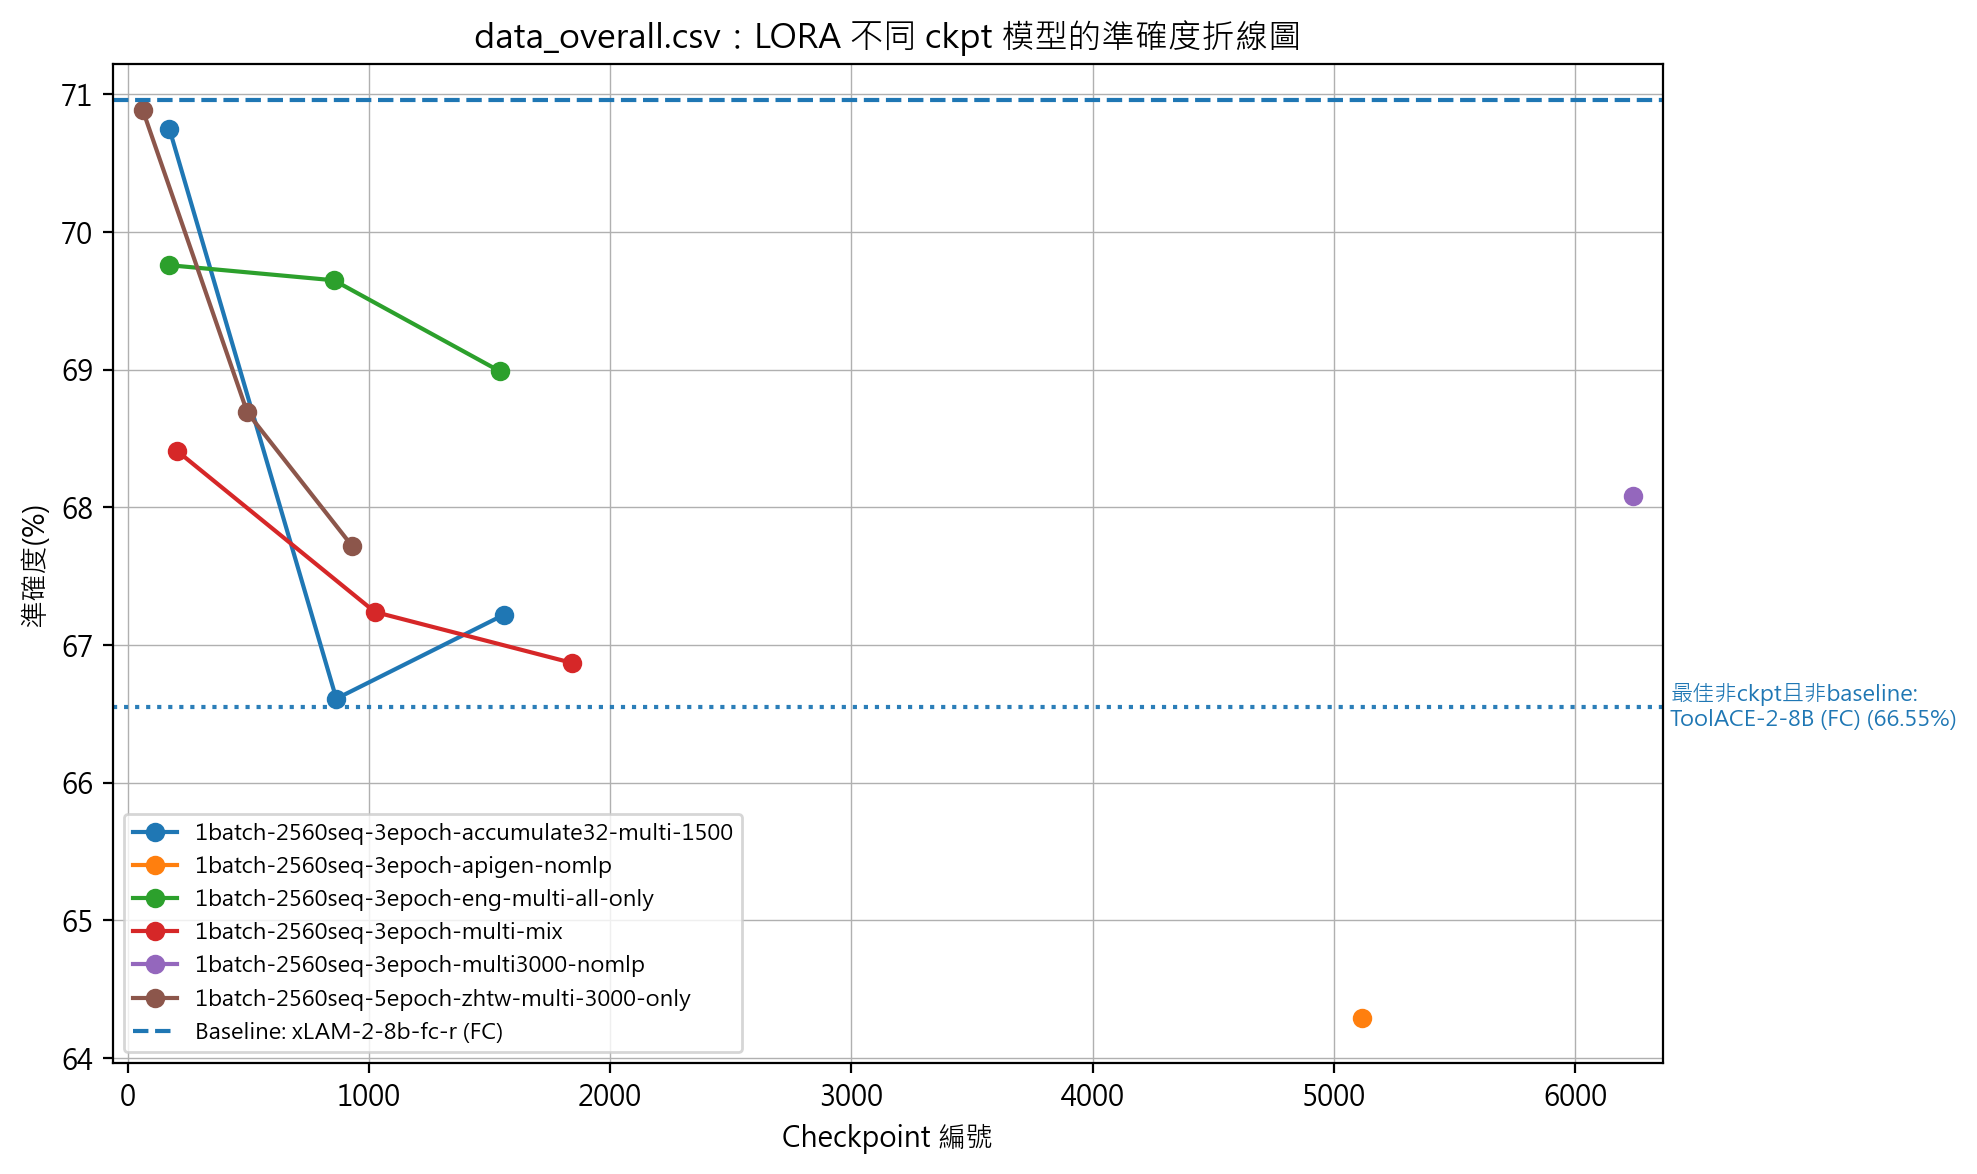
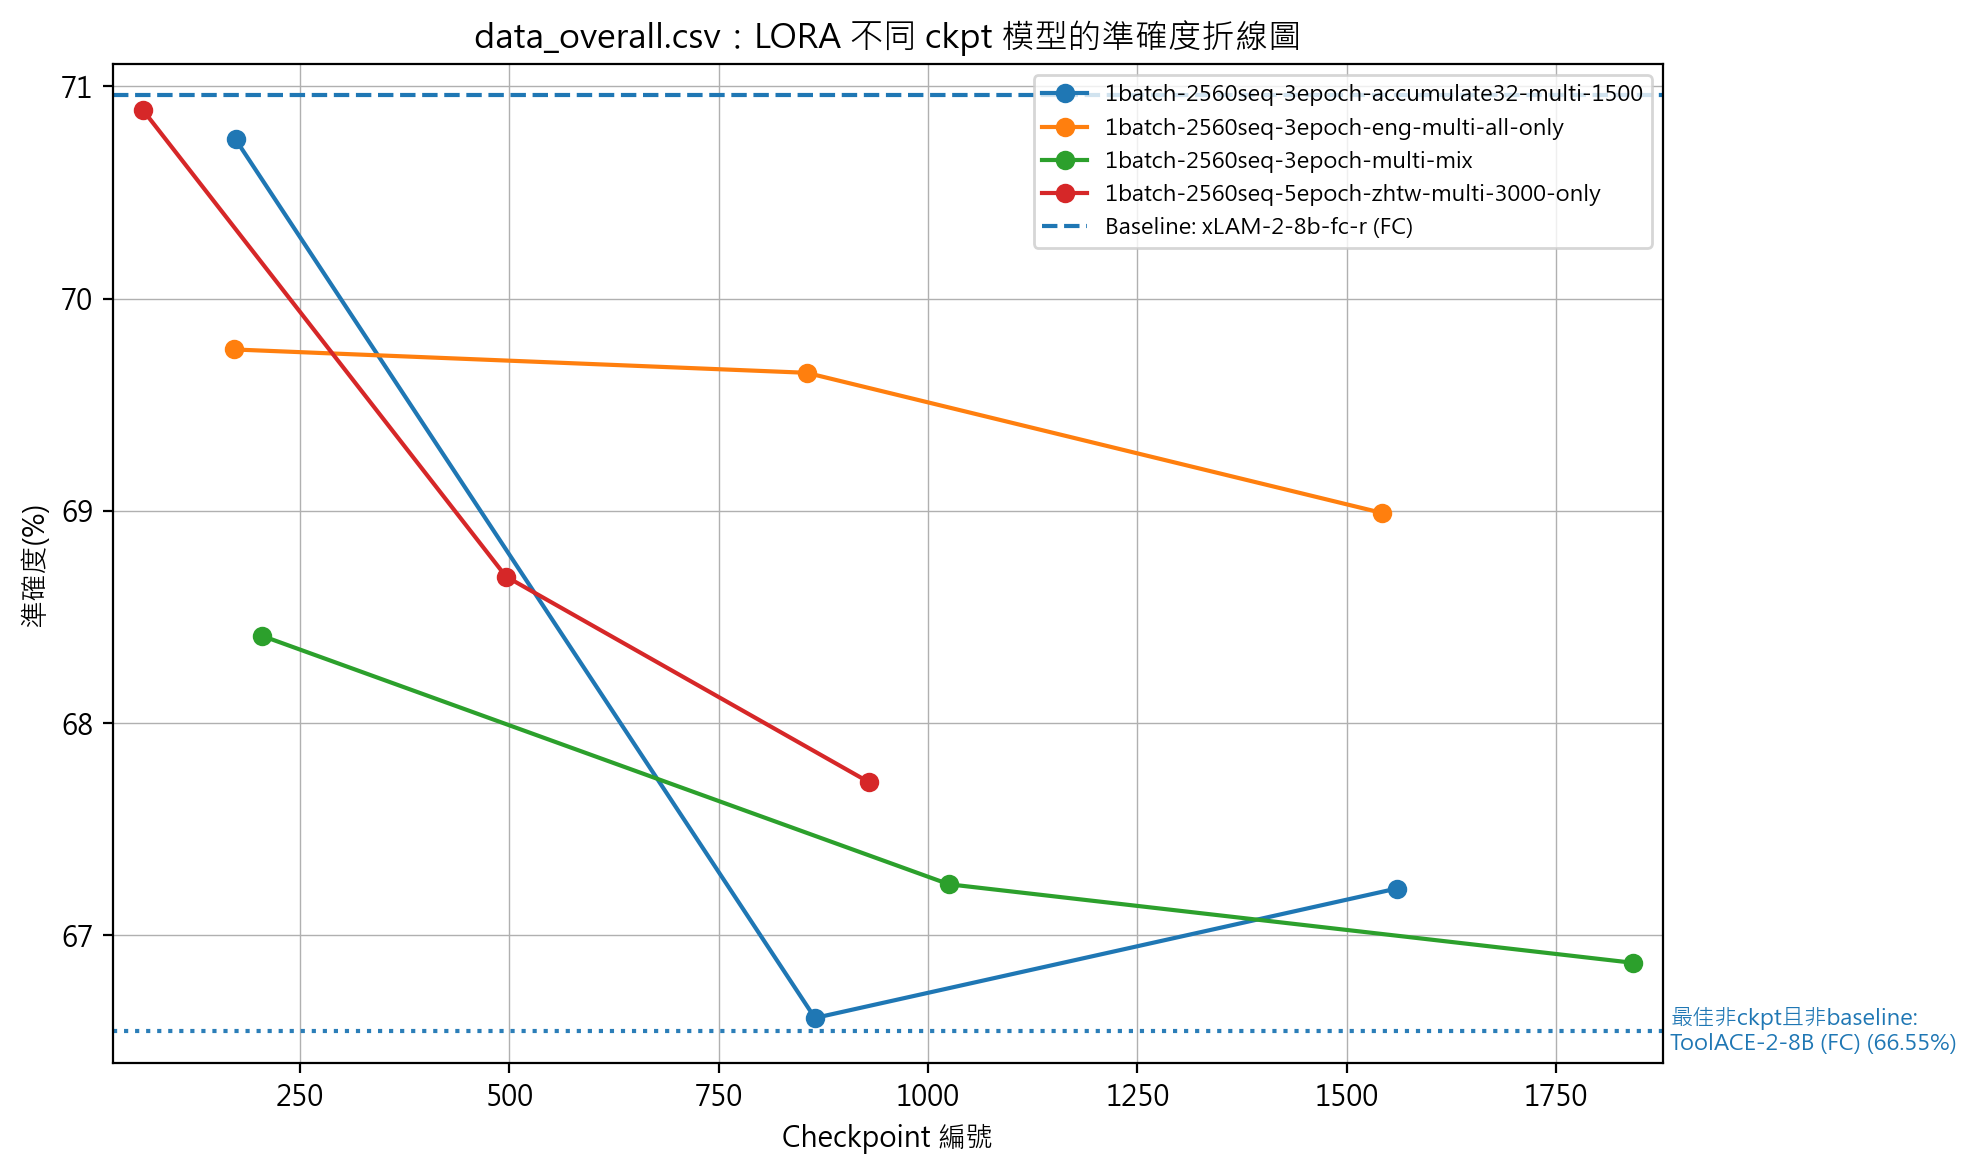
新圖

diff --git a/berkeley-function-call-leaderboard/plot_ckpt_lora.py b/berkeley-function-call-leaderboard/plot_ckpt_lora.py
@@ -6,6 +6,8 @@
 - data_multi_turn.csv
 - data_non_live.csv
 - data_overall.csv
+- data_chinese_multi_turn.csv
+- data_chinese_overall.csv
 
 規則：
 1) 只繪製「Model」欄位內含 ckpt 的列（LoRA 版本）。
@@ -35,6 +37,8 @@ TARGET_FILES = [
     "data_live.csv",
     "data_non_live.csv",
     "data_multi_turn.csv",
+    "data_chinese_multi_turn.csv",
+    "data_chinese_overall.csv"
 ]
 
 # 可能的整體準確度欄位名稱候選（會依序嘗試）
@@ -45,6 +49,8 @@ ACC_COL_CANDIDATES = [
     "Multi Turn Overall Acc",
     "AST (ZH) Summary",
     "AST Summary",
+    "Multi Turn (ZH) Overall Acc",
+    "AST (ZH) Summary",
 ]
 
 # 解析 ckpt 的正則：抓出 ckpt 數字與後綴超參數字串
